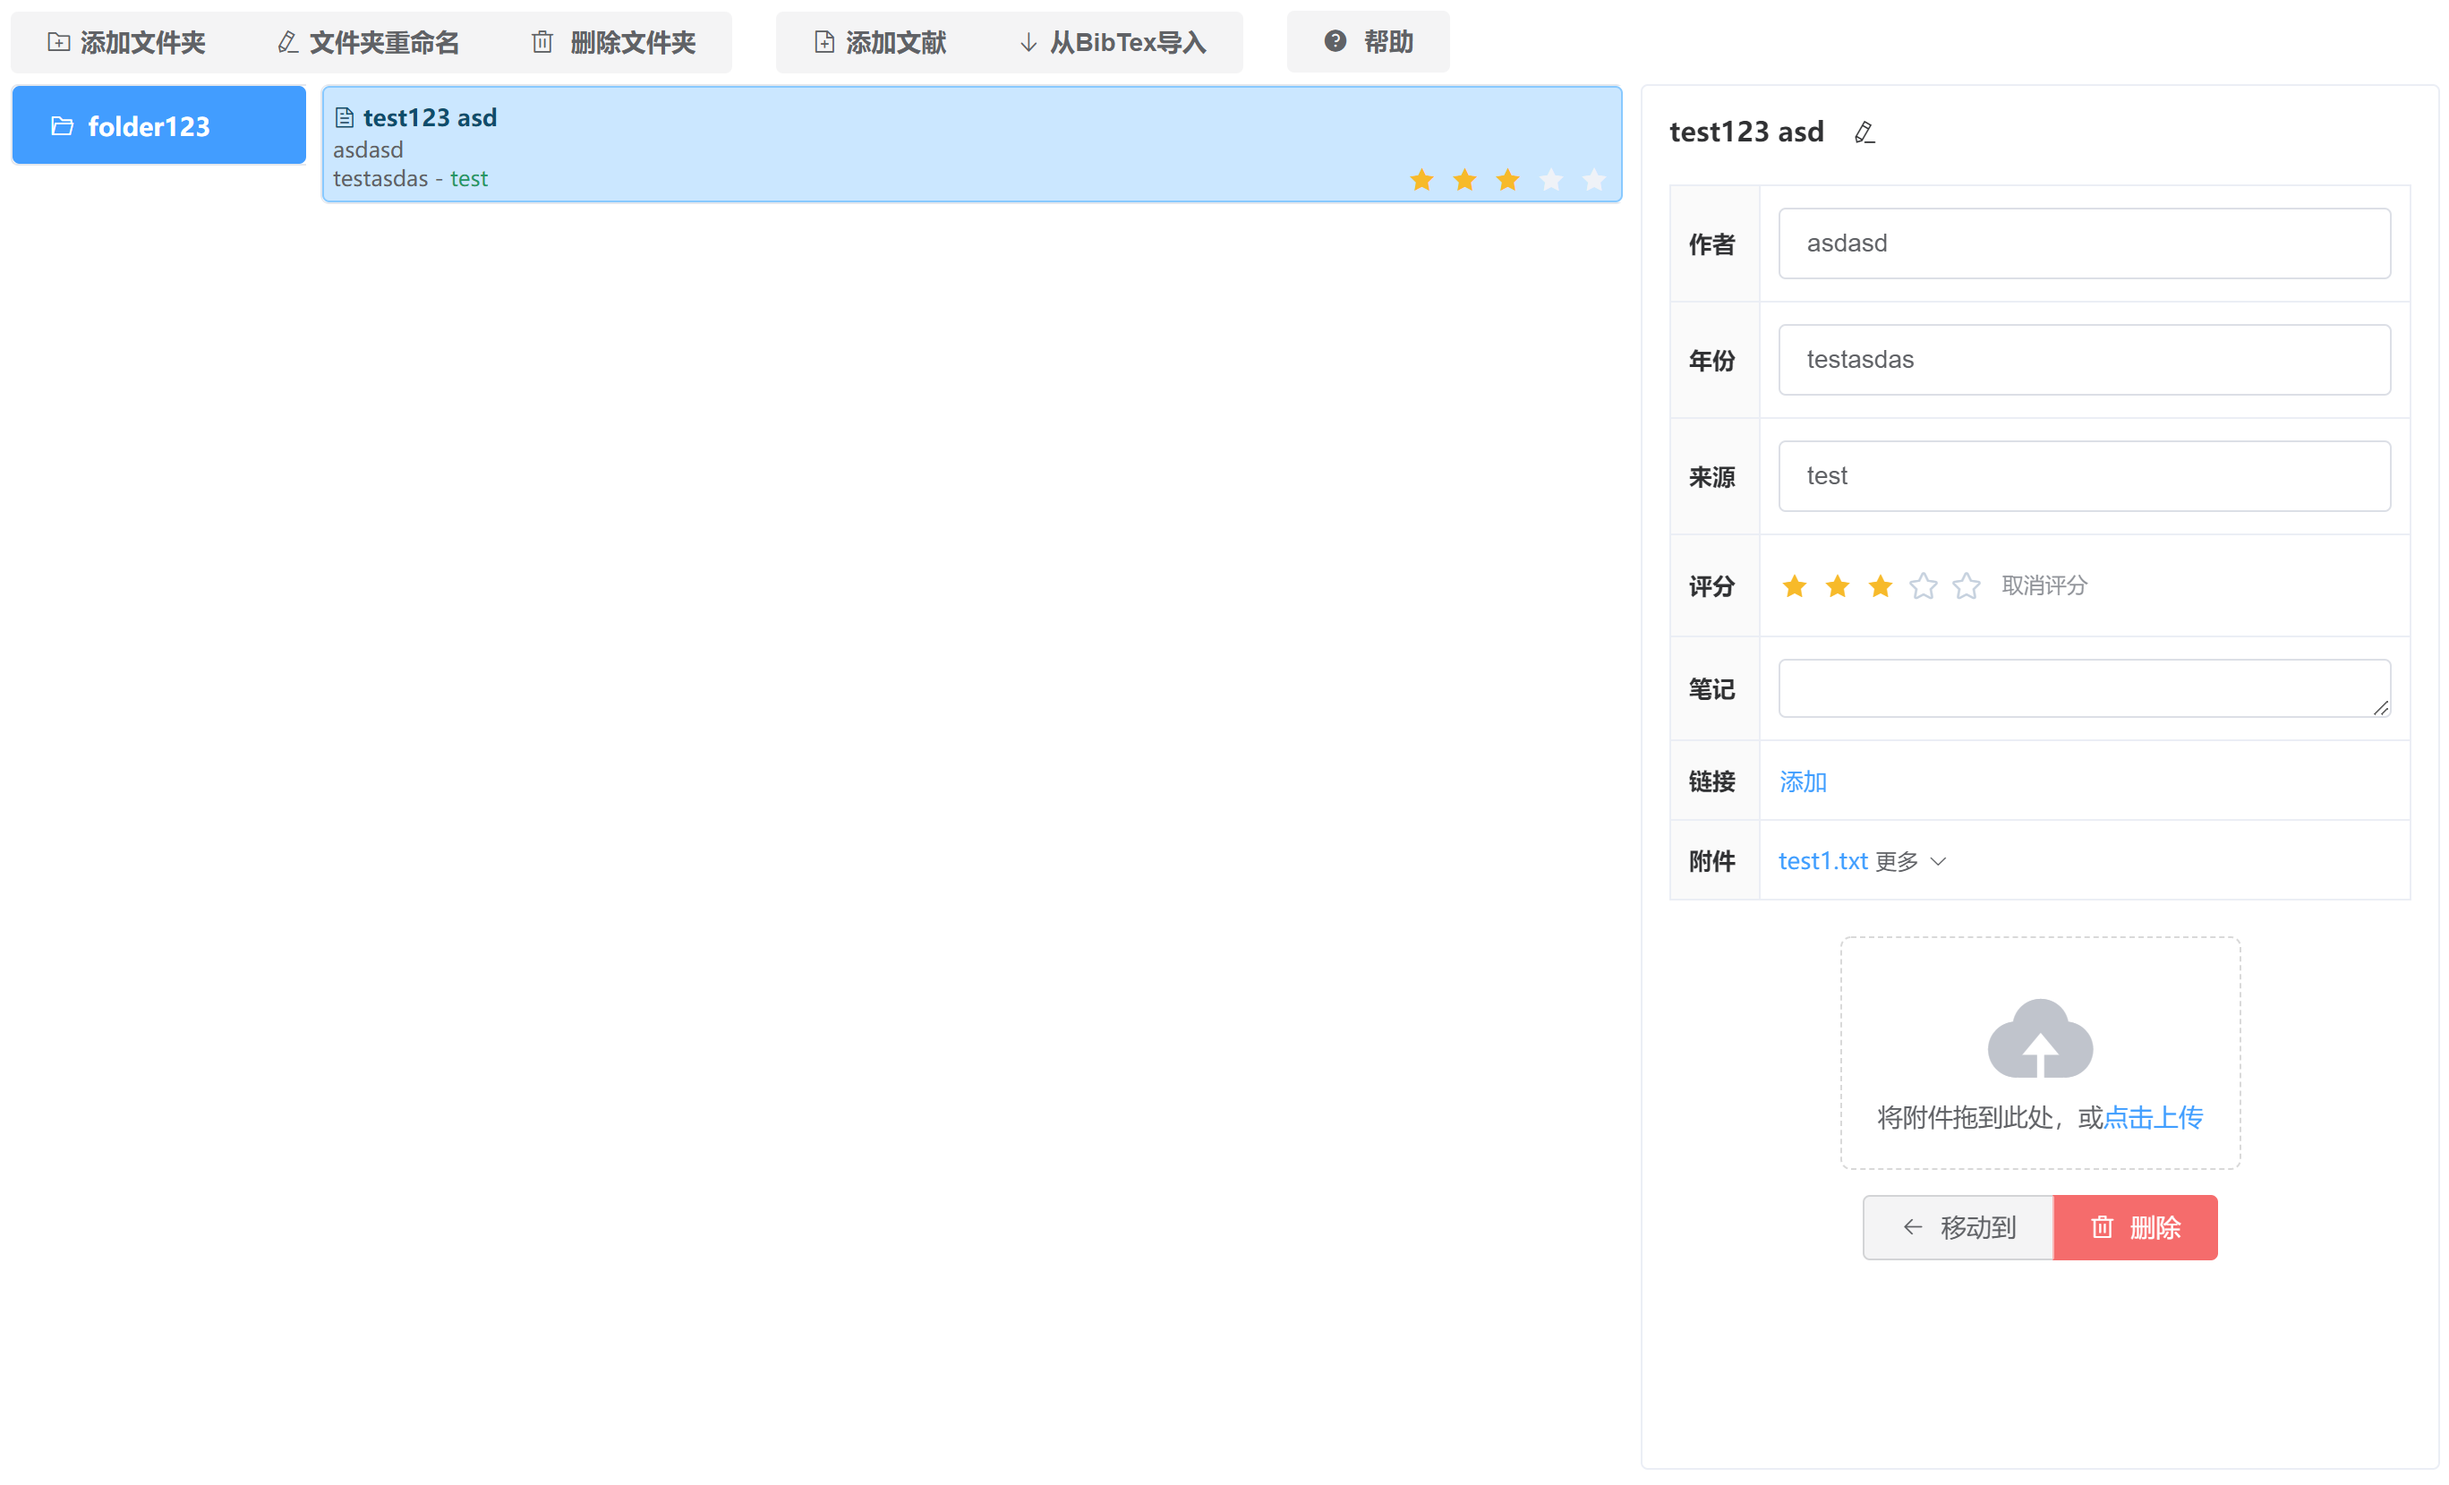
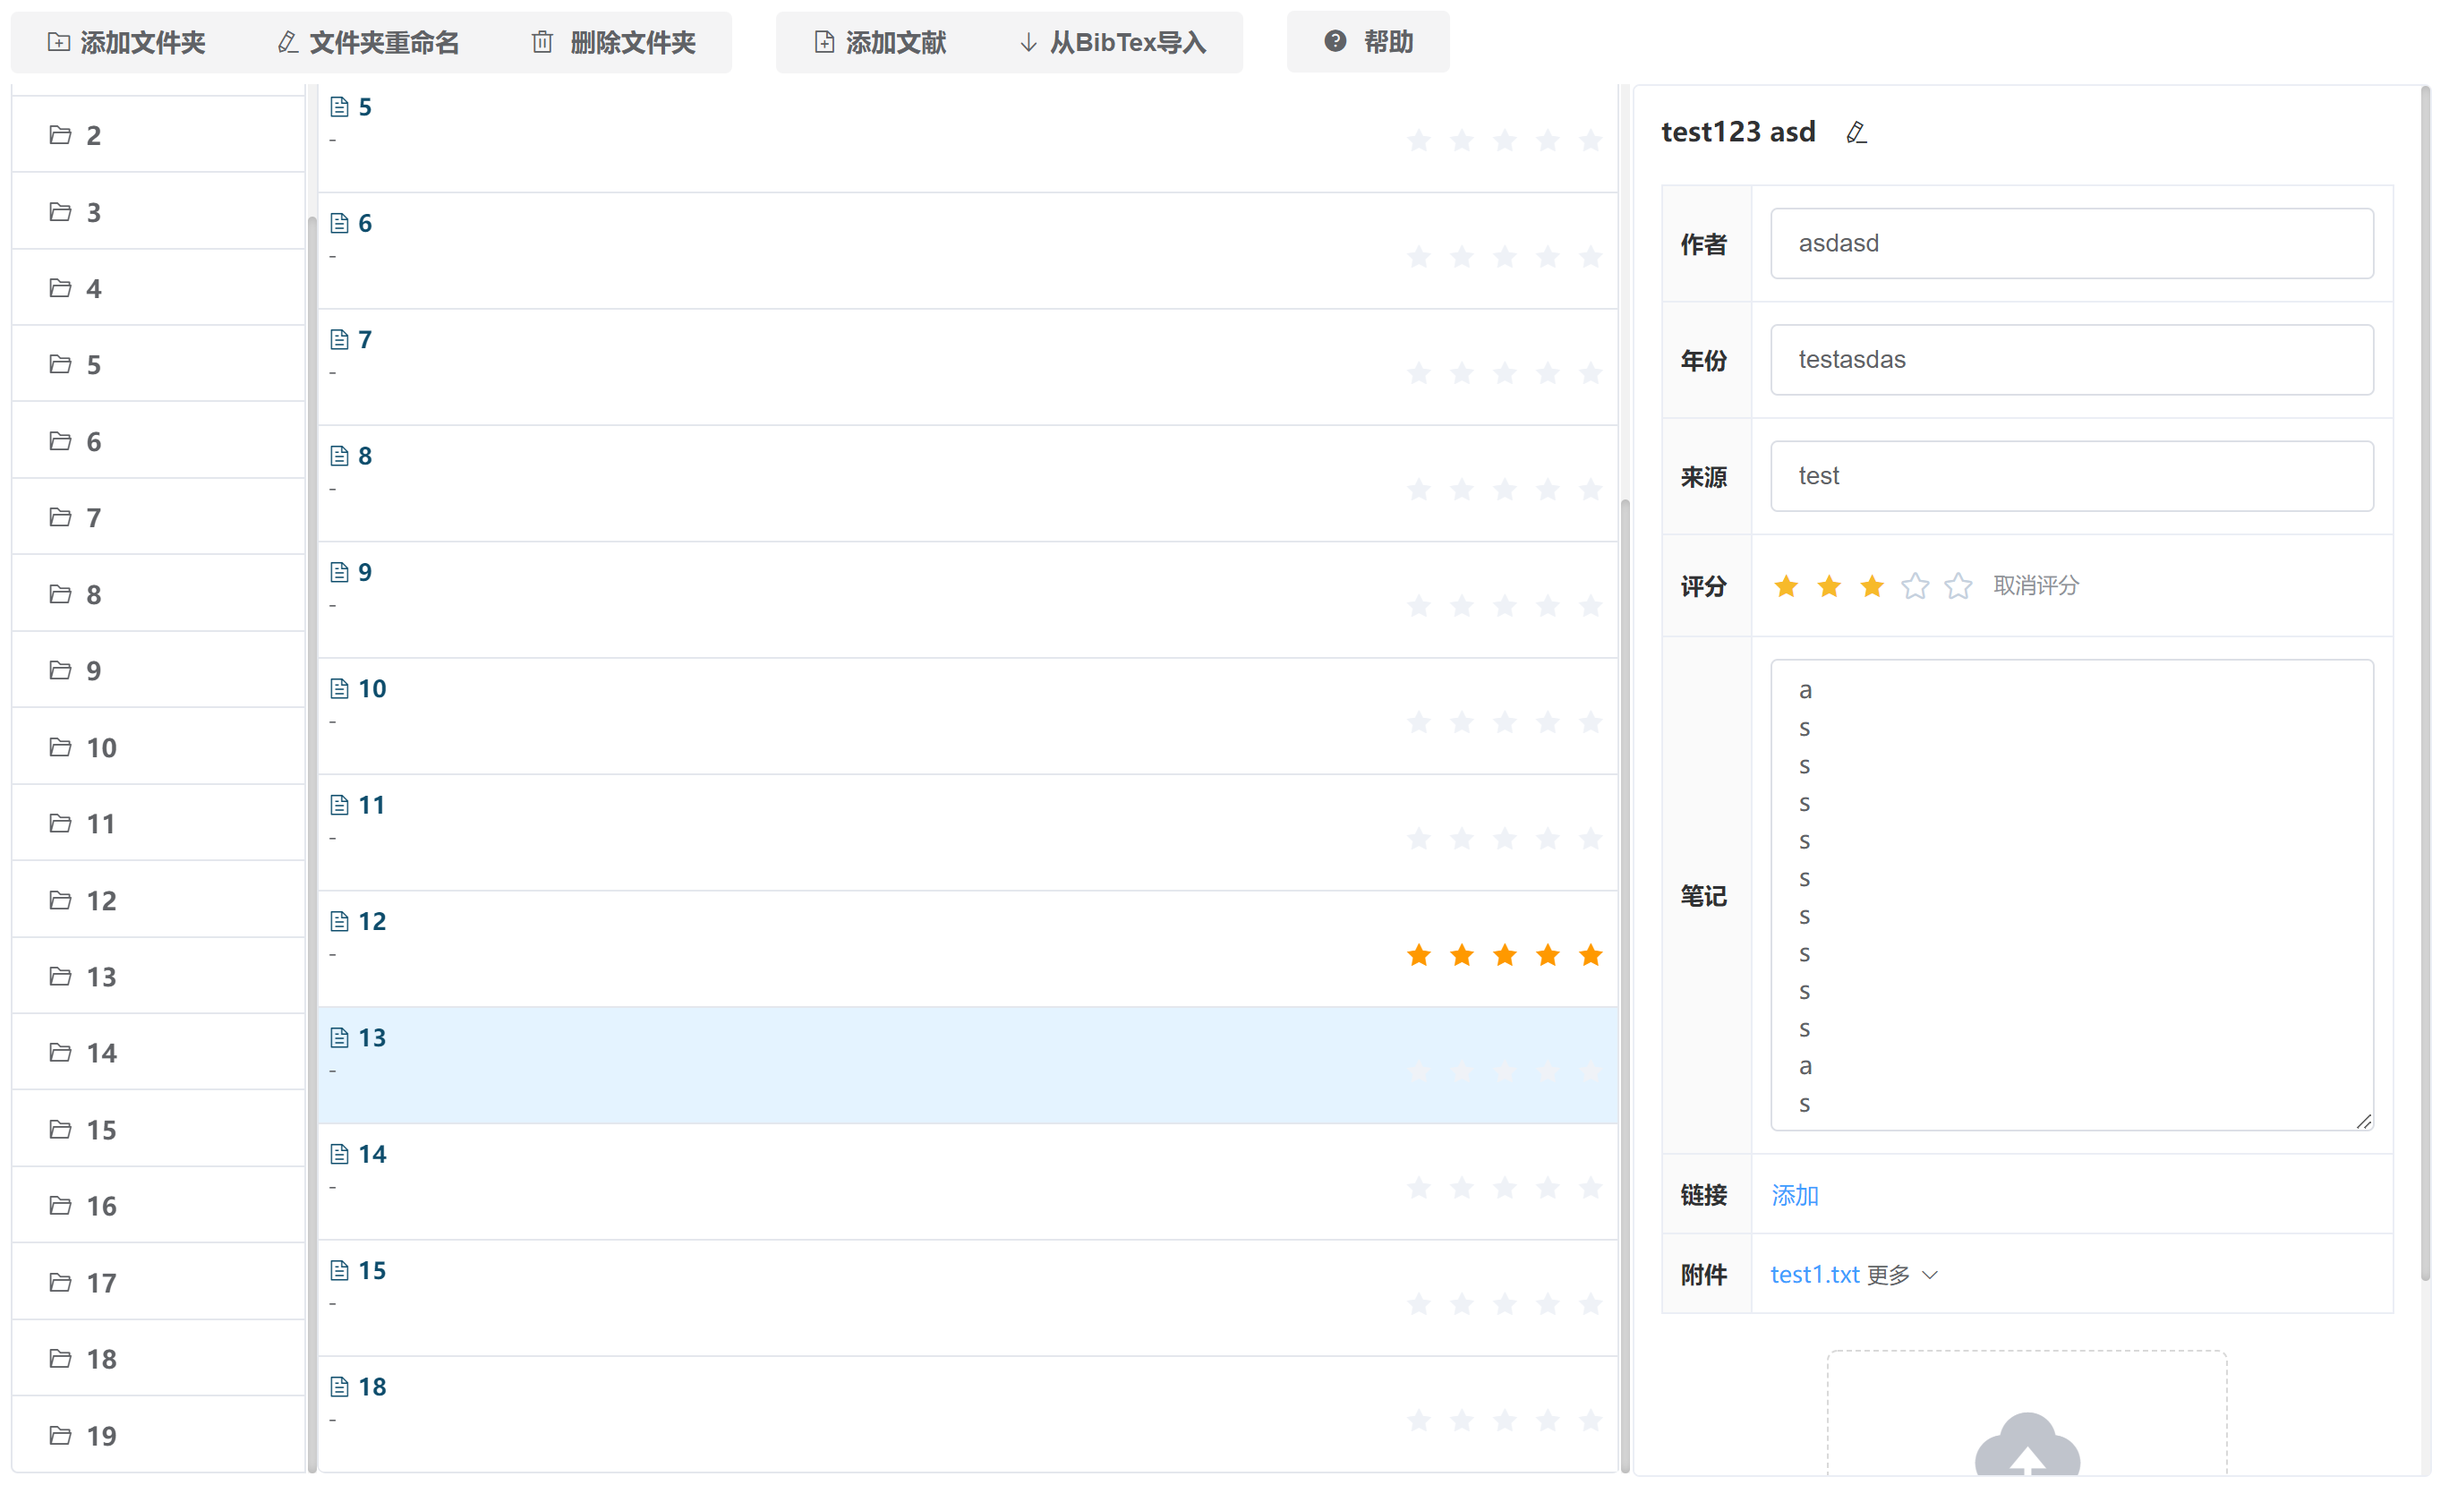
修改样式

diff --git a/ExpressApp/css/main.css b/ExpressApp/css/main.css
@@ -45,24 +45,49 @@
 .ref-tab {
   float: left;
   position: relative;
-  left: 0.5vw;
+  left: 0vw;
   /* border-right: #EBEEF5 solid 1px; */
   border-radius: 5px;
 }
 
+.folder-tab-container {
+  overflow: auto;
+  /* width: 12.5vw; */
+  height: 93.5vh;
+  float: left;
+  margin-right: 0.2vw;
+}
 .folder-tab .el-tabs__header.is-left {
   width: 12vw; /*span1*/
   margin-right: 2px;
+}
+.ref-tab-container {
+  overflow: auto;
+  /* width: 53.7vw; */
+  height: 93.5vh;
+  float: left;
+  margin-right: 0.3vw;
+}
+*::-webkit-scrollbar {
+  width: 5px;
+  height: 5px;
+  background-color: #f2f2f2;
+}
+*::-webkit-scrollbar-thumb {
+  box-shadow: inset 0 0 6px rgba(0, 0, 0, 0.3);
+  border-radius: 25px;
 }
 .ref-tab .el-tabs__header.is-left {
   width: 53.1vw; /*span2*/
   margin-right: 2px;
 }
 .ref-content-card {
-  position: fixed;
-  left: 67vw;
-  width: 32.5vw;/*span3*/
-  height: 93vh;
+  display: block;
+  /* float: left; */
+  position: relative;
+  right: 0vw;/*span3 */
+  /* width: 32.5vw; */
+  height: 93.5vh;
 }
 
 .ref-tab .el-tabs__item {
@@ -124,7 +149,7 @@
     border-top: 1px solid #88c9ff !important;
     border-bottom: 1px solid #88c9ff !important;
 
-    border-radius: 4px;
+    border-radius: 5px;
     background: #cbe7ff;
 }
 
@@ -143,7 +168,7 @@
     border-radius: 4px !important;
     background: #429dff;
     color: white !important;
-}			
+}
 .folder-tab.el-tabs--left.el-tabs--card .el-tabs__item.is-left {
     color: #606266;
 }

diff --git a/ExpressApp/index.html b/ExpressApp/index.html
@@ -104,6 +104,7 @@
 
 			<div>
 				<span>
+					<div class="folder-tab-container">
 					<el-tabs v-if="selectedFolder != undefined" v-model="selectedFolder" class="folder-tab" type="card" tab-position="left" @tab-click="handleFolderTabSelect">
 						<el-tab-pane v-for="folder in refData.folders" :name="folder" :key="folder" :label="folder">
 							<template #label>
@@ -116,8 +117,10 @@
 							</template>
 						</el-tab-pane>
 					</el-tabs>
+				</div>
 				</span>
 				<span>
+					<div class="ref-tab-container">
 					<el-tabs v-if="(selectedFolder != undefined) && (selectedRef != undefined)" v-model="selectedRef" class="ref-tab" type="card" tab-position="left" @tab-click="handleRefTabSelect">
 						<el-tab-pane v-for="refer in refData[selectedFolder].refers" :name="refer" :key="refer" :label="refer">
 							<template #label>
@@ -139,6 +142,7 @@
 							</template>
 						</el-tab-pane>
 					</el-tabs>
+					</div>
 				</span>
 				<span>
 					<el-card shadow="never" class="ref-content-card" v-if="(selectedFolder != undefined) && (selectedRef != undefined)" style="text-align: center;">
